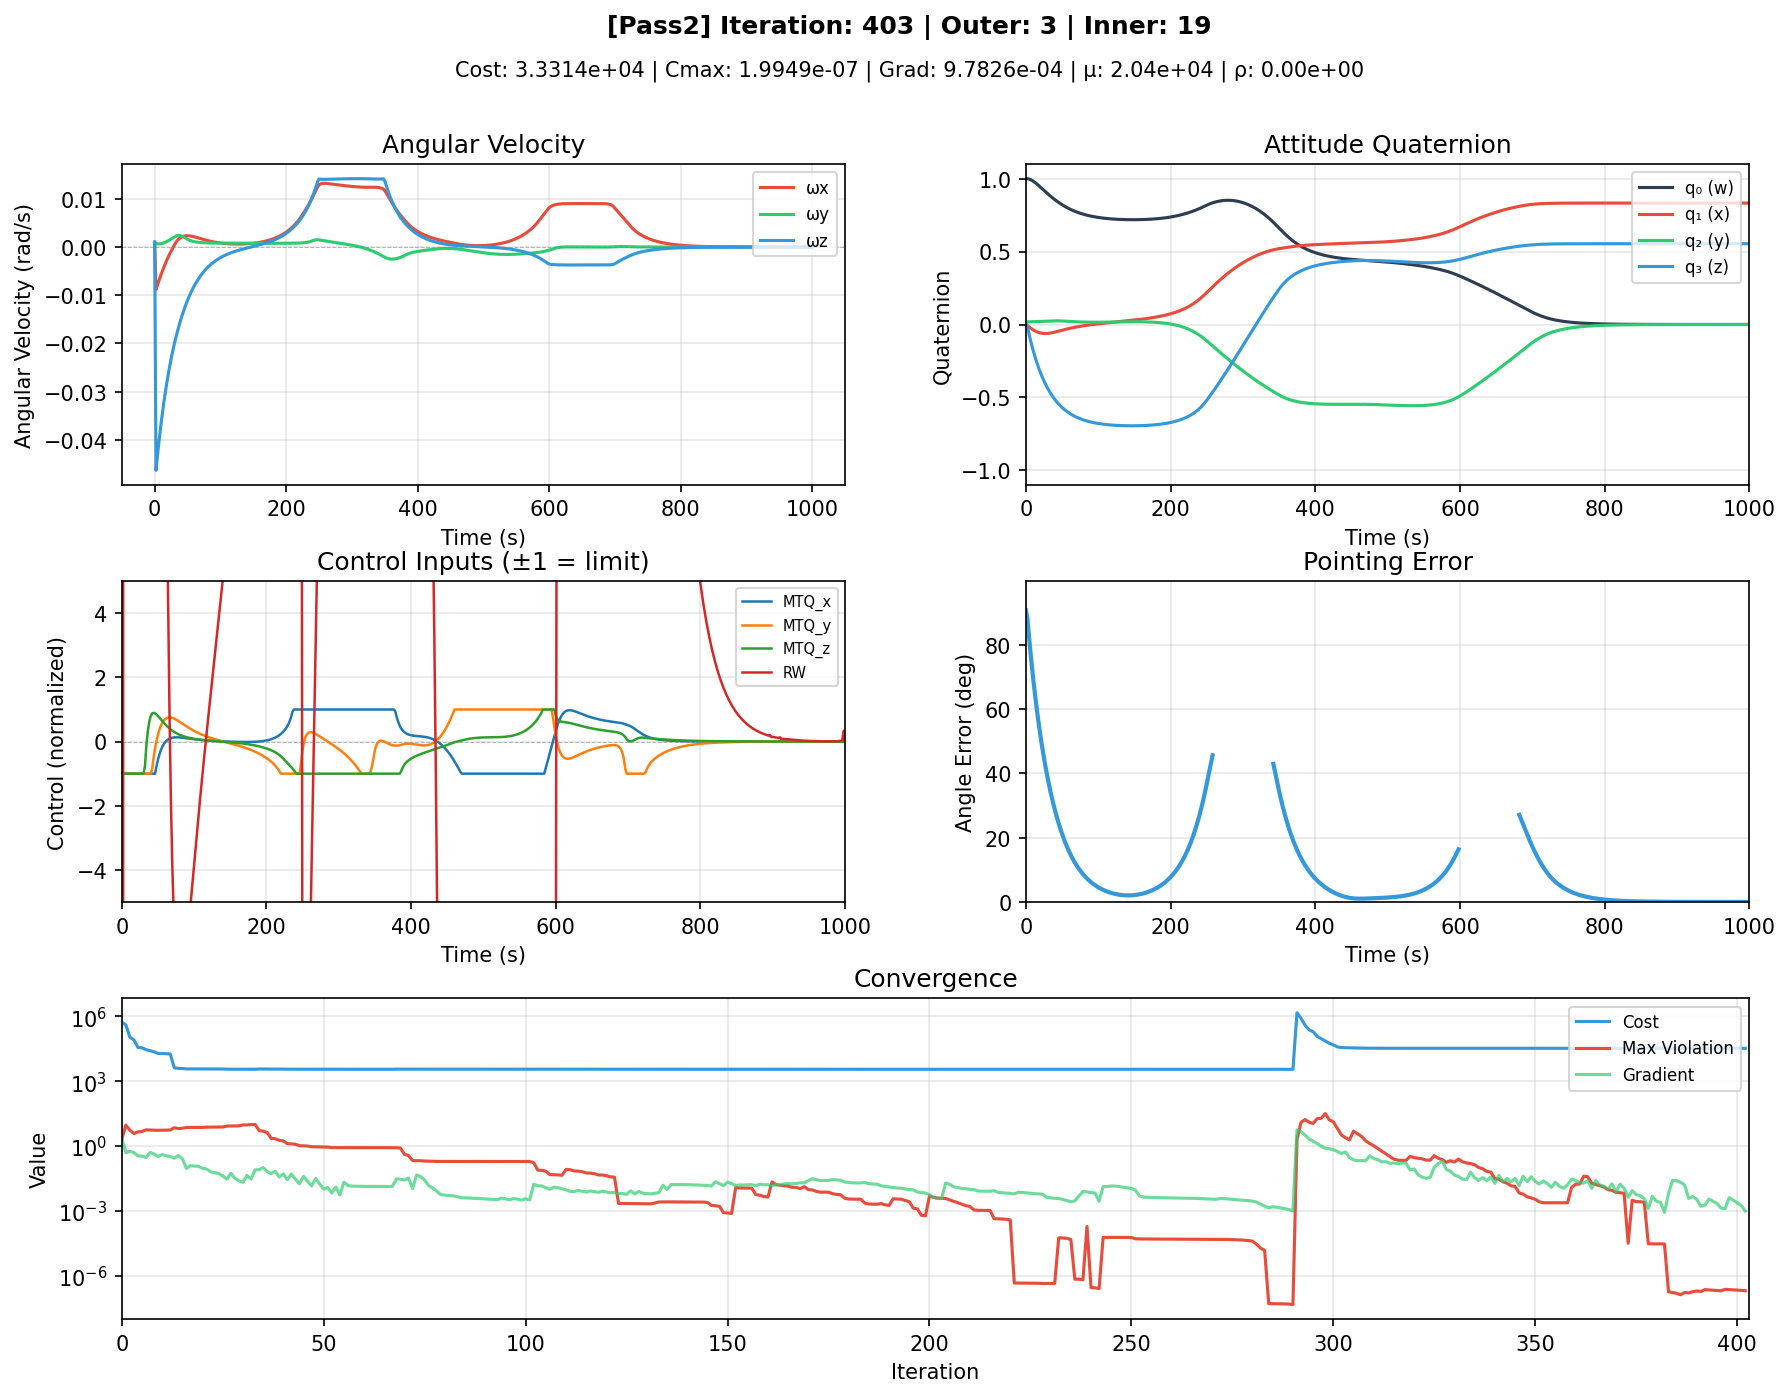
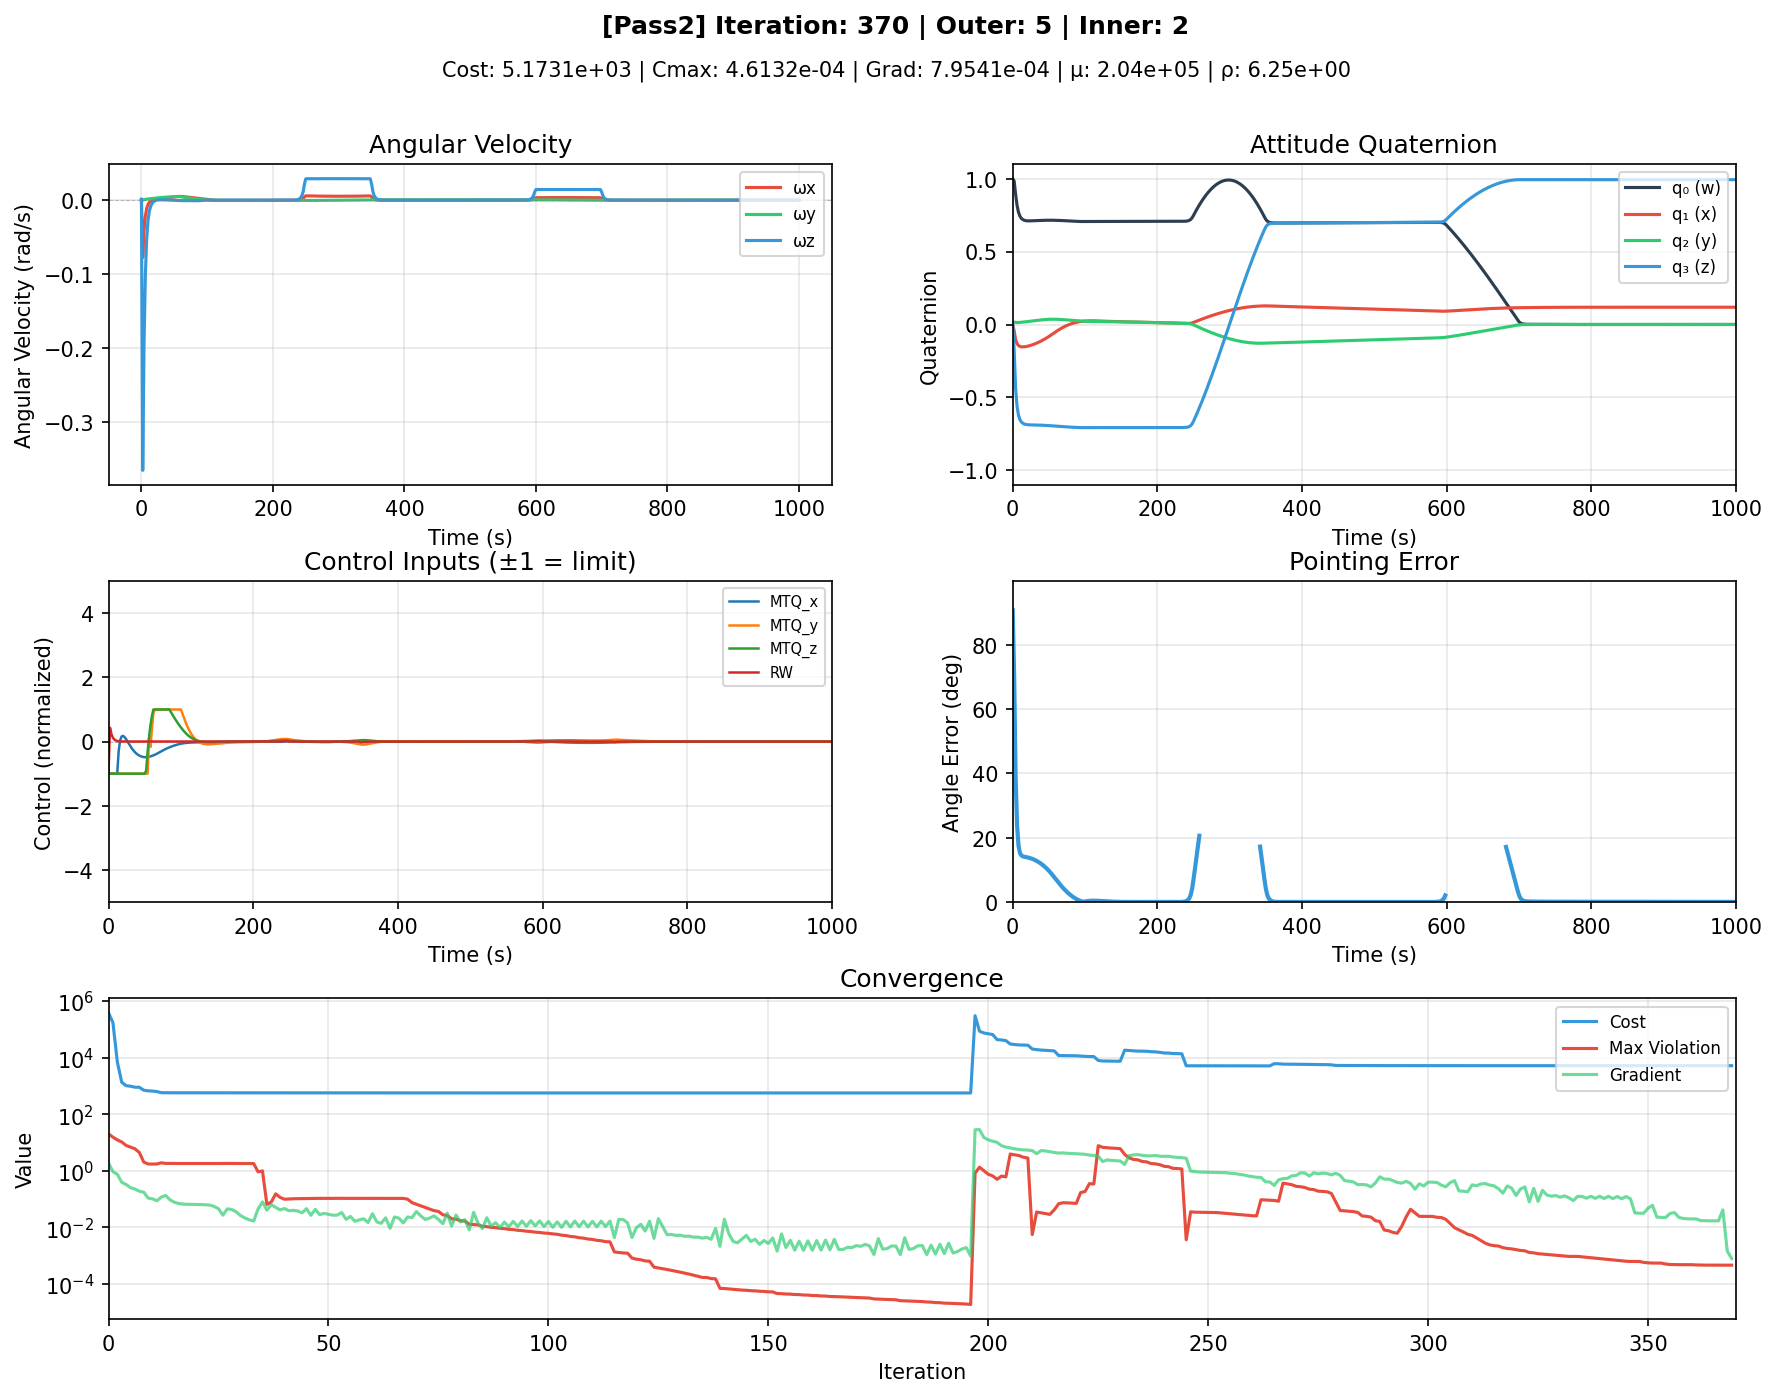
Update visualize_iteration_convergence.py to use aggressive tuning
Results with aggressive tuning on multi-goal 3MTQ+1RW (1000s):
- 91.2% max RW usage (vs ~22% with balanced)
- 0.04° final error
- Sharp transitions at goal changes (20°/s peak slew rate)
- 370 total iterations, 86s compute time

The aggressive tuning (ang_vel/angle ratio ≈ 10) enables:
- Fast slews with high RW utilization
- Sharp transitions instead of U-shaped slow rotations
- Still meets all constraints (cmax < 5e-4)

diff --git a/papers/Planner/visualize_iteration_convergence.py b/papers/Planner/visualize_iteration_convergence.py
@@ -238,16 +238,11 @@ def main():
     print(f"Goal2: {goal2}")
     print(f"Goal3: {goal3}")
     
-    # Create settings
-    settings = create_optimized_planner_settings(sat, duration=tf, tuning="balanced")
+    # Create settings - use AGGRESSIVE tuning for max RW usage
+    settings = create_optimized_planner_settings(sat, duration=tf, tuning="aggressive")
     
     # Increase wmax to allow faster slews (60 deg/s)
     settings.wmax = np.radians(60)
-    
-    # Make RW MUCH cheaper - try 0.0001x MTQ cost
-    # RW cost is now properly scaled in C++ by NONMTQ_TORQ_SCALE²
-    # Use same weight ratio as MTQ for equal cost-per-torque
-    settings.rw_control_weight = settings.mtq_control_weight * 0.1  # Favor RW slightly
     
     # Disable momentum cost and allow more momentum capacity
     settings.rw_AM_weight = 0.0
@@ -256,15 +251,9 @@ def main():
     
     print(f"RW control weight: {settings.rw_control_weight}")
     print(f"MTQ control weight: {settings.mtq_control_weight}")
-    print(f"Ratio MTQ/RW: {settings.mtq_control_weight / settings.rw_control_weight:.0f}x")
+    print(f"ang_vel/angle ratio: {settings.cost_main.ang_vel / settings.cost_main.angle:.1f}")
     
-    # Try bdot_on=4 (PD control with RW) 
-    settings.bdot_on = 4
-    print(f"Using bdot_on={settings.bdot_on} (PD control init with RW)")
-    
-    # Reduce Pass1 iterations for quick testing
-    settings.pass1.convergence.max_iters = 10  # was 20
-    settings.pass1.aug_lag.outer_loop_max = 3  # was 10
+    print(f"Using bdot_on={settings.bdot_on}")
     
     # Create multi-goal GoalList (100s No_Goal gaps instead of 50s)
     goals = GoalList({
